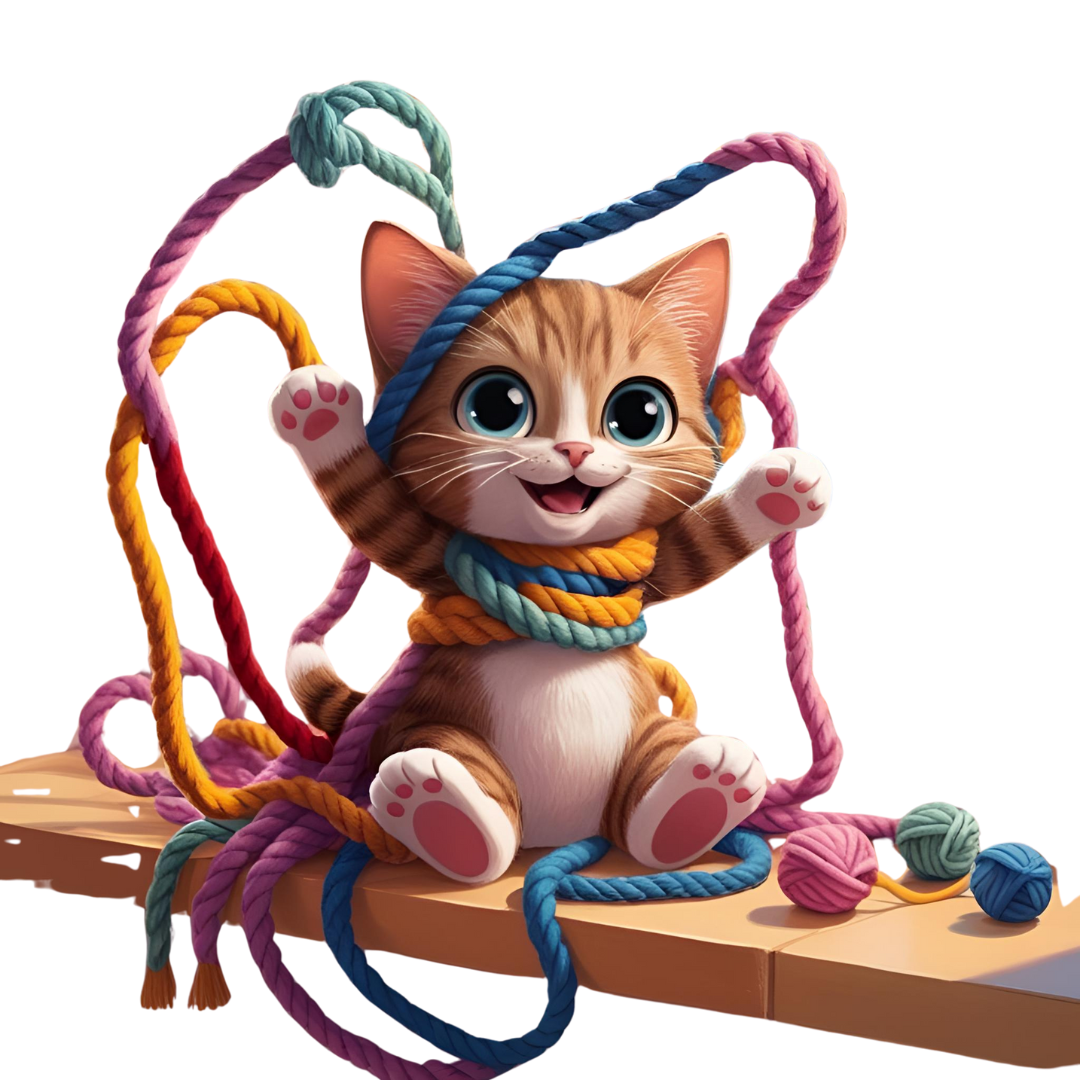
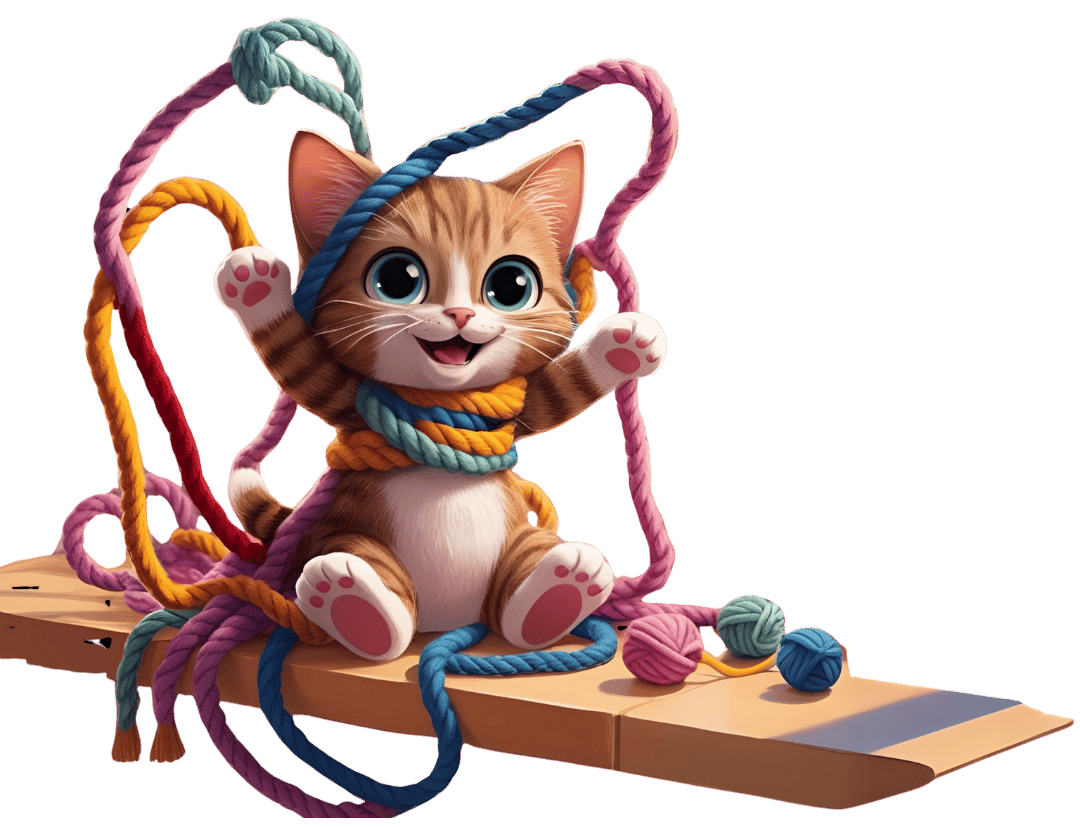
fix bug image

diff --git a/src/pages/anonymous-message/index.jsx b/src/pages/anonymous-message/index.jsx
@@ -135,7 +135,7 @@ const MessageBox = () => {
             Send
           </button>
           <p className="bg-slate-50 bg-opacity-50 text-center text-sm font-bold italic text-[#FF0000]">
-            &bull; Identitas pengirim tersamarkan, hanya anda dan tuhan lah yang tau!!
+            &bull; Identitas pengirim tersamarkan, hanya anda dan tuhan yang tau!!
           </p>
         </div>
       </form>
@@ -154,7 +154,7 @@ const HaveFunBox = () => {
       }}
     >
       {/* <h1 className="text-6xl text-black">Coming Soon!!</h1> */}
-      <div className="absolute bottom-0 left-0">
+      <div className="absolute -bottom-[3px] left-0">
         <img className="w-[170px]" src={catKnitting} alt="Waiting Avatar" />
       </div>
       <div className="absolute -right-5 bottom-0">
